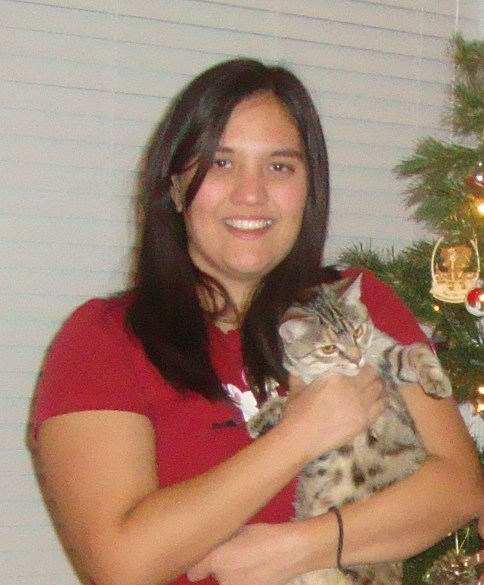
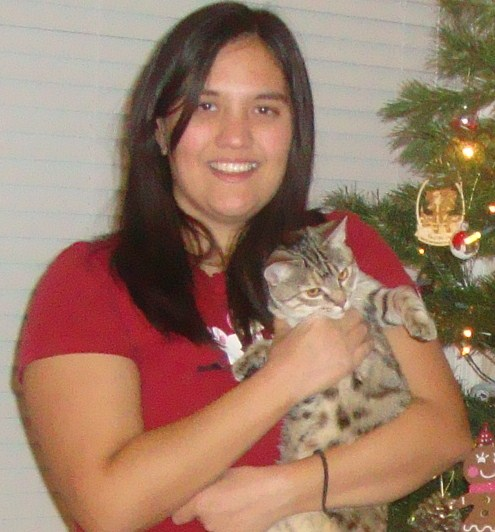
changed one image and adjusted the format of a few others

diff --git a/bakin.html b/bakin.html
@@ -26,20 +26,20 @@
     </div>
 	
 	<div class="grid_3 omega">
-      <img src="img/me.jpg" alt="My Picture"/>
+      <img src="img/me_and_tomo.jpg" alt="My Picture"/>
 	</div>
     
 	<div id="featured-cupcake" class="grid_7">
       <h2>Interesting Sites</h2>
 	  <p>Some webcomics that I enjoy include <a href="http://www.avasdemon.com/">Ava's Demon</a> and <a href="http://paranatural.net/">Paranatural</a>. If you have time I recommend checking them out!</p>
-	  <img src="img/me_and_tomo.jpg" alt="Me and My Cat"/>
+	  <img src="img/cookies.jpg" alt="cookies I made"/>
     </div>
 	
 	<div id="new-cupcakes" class="grid_5 omega">
       <h2>Pets</h2>
 	  <p>Recently I got a cat named Tomoe who loves to play with string.</p>
-	  <img src="img/Tomoe.jpg" alt="My Cat"/>
 	  <img src="img/fencing.jpg" alt="Me In Fencing Gear"/>
+	  <img src="img/Tomoe.jpg" alt="My Cat"/>
     </div>
     <div class="grid_7">
       <h2>My Hobbies</h2>

diff --git a/css/style.css b/css/style.css
@@ -60,10 +60,12 @@ ul.nav li a {
 #new-cupcakes img {
   border: 8px solid #FAF3BC;
   margin: 0 0 20px 0;
+  height: 273px;
 }
 
 #featured-cupcake img {
   border: 8px solid #FAF3BC;
+  height: 588px;
 }
 
 #copyright {
